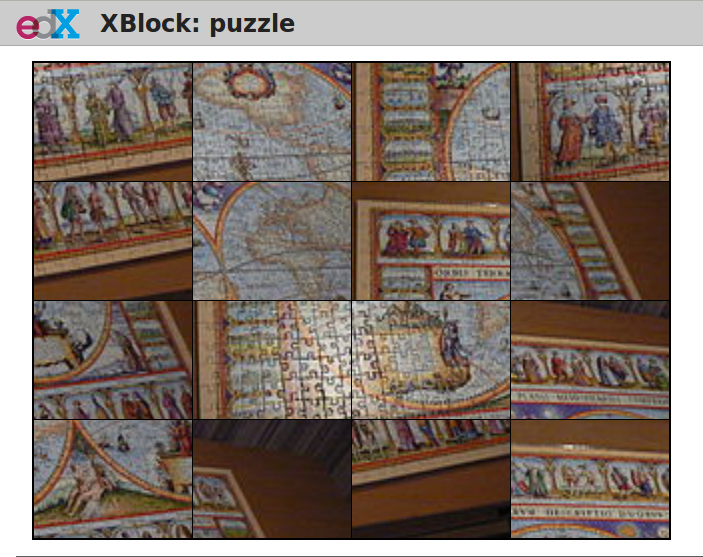
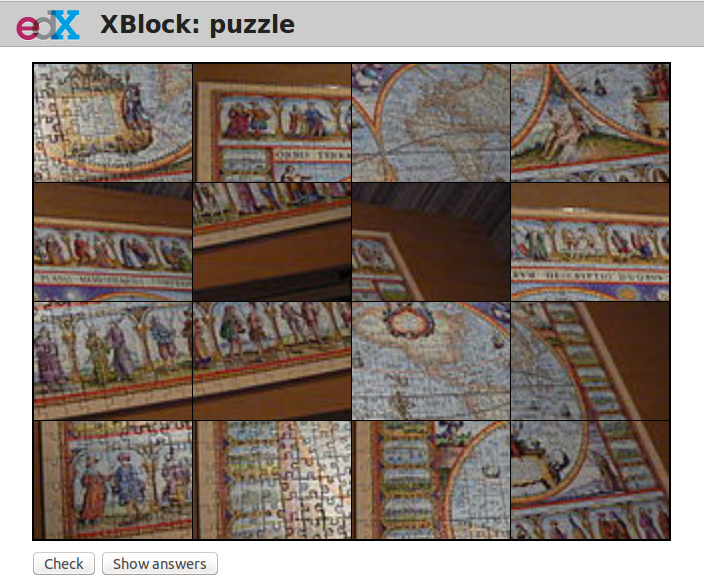
Better preview

diff --git a/src/static/puzzle/view.html b/src/static/puzzle/view.html
@@ -3,4 +3,8 @@
 		<image src="" style="visibility: hidden"/>
 	</div>
 </div>
+<div class="puzzle-buttons">
+	<input type="submit" value="Check"/>
+	<input type="submit" value="Show answers"/>
+</div>
 	

diff --git a/src/static/puzzle/puzzle.css b/src/static/puzzle/puzzle.css
@@ -33,3 +33,7 @@
     cursor: pointer;
     position: absolute;
 }
+
+.puzzle-buttons{
+	padding-top:10px;
+}
